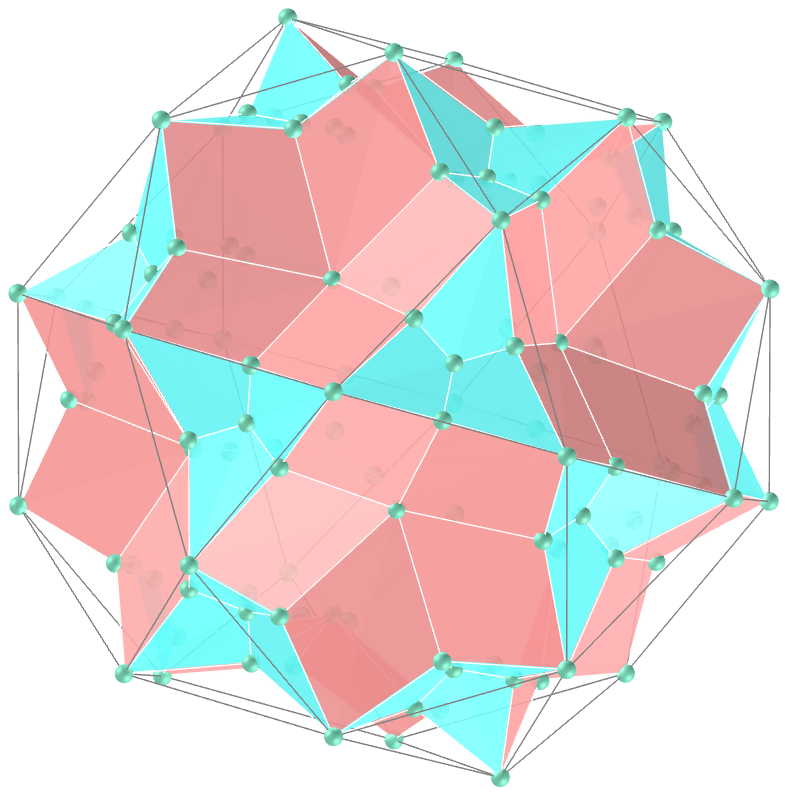
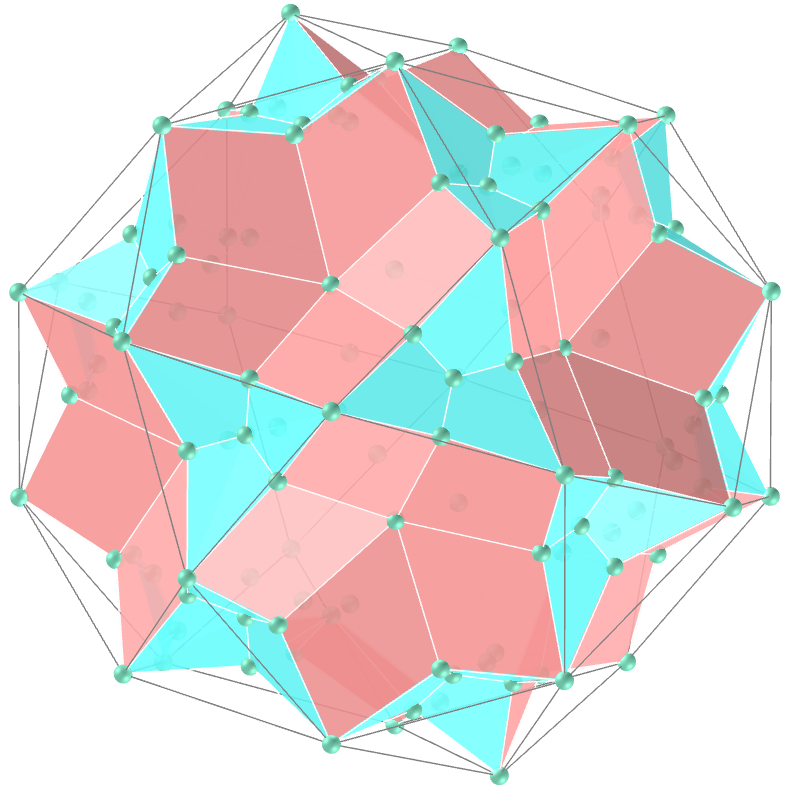
update

diff --git a/kites/vr/Rhombicosidodecahedron.htm b/kites/vr/Rhombicosidodecahedron.htm
@@ -102,73 +102,73 @@
 			<a-sphere mixin='esfera' position='0 1.476693305 0.3486'></a-sphere>
 			<a-sphere mixin='esfera' position='-0.456323326 1.302393305 0.630623326'></a-sphere>
 			<a-sphere mixin='esfera' position='-0.282023326 1.020369979 1.086946652'></a-sphere>
-			<a-sphere mixin='esfera' position='-0 0.822969659 0.50862322'></a-sphere>
+			<a-sphere mixin='esfera' position='-0 0.7781003111 0.480892438'></a-sphere>
 			<a-sphere mixin='esfera' position='-0.282023326 1.020369979 -1.086946652'></a-sphere>
 			<a-sphere mixin='esfera' position='-0.456323326 1.302393305 -0.630623326'></a-sphere>
 			<a-sphere mixin='esfera' position='0 1.476693305 -0.3486'></a-sphere>
 			<a-sphere mixin='esfera' position='0.456323326 1.302393305 -0.630623326'></a-sphere>
 			<a-sphere mixin='esfera' position='0.282023326 1.020369979 -1.086946652'></a-sphere>
-			<a-sphere mixin='esfera' position='0 0.822969659 -0.50862322'></a-sphere>
+			<a-sphere mixin='esfera' position='0 0.7781003111 -0.480892438'></a-sphere>
 			<a-sphere mixin='esfera' position='-0.282023326 -1.020369979 1.086946652'></a-sphere>
 			<a-sphere mixin='esfera' position='-0.456323326 -1.302393305 0.630623326'></a-sphere>
 			<a-sphere mixin='esfera' position='0 -1.476693305 0.3486'></a-sphere>
 			<a-sphere mixin='esfera' position='0.456323326 -1.302393305 0.630623326'></a-sphere>
 			<a-sphere mixin='esfera' position='0.282023326 -1.020369979 1.086946652'></a-sphere>
-			<a-sphere mixin='esfera' position='0 -0.822969659 0.50862322'></a-sphere>
+			<a-sphere mixin='esfera' position='0 -0.7781003111 0.480892438'></a-sphere>
 			<a-sphere mixin='esfera' position='0.282023326 -1.020369979 -1.086946652'></a-sphere>
 			<a-sphere mixin='esfera' position='0.456323326 -1.302393305 -0.630623326'></a-sphere>
 			<a-sphere mixin='esfera' position='0 -1.476693305 -0.3486'></a-sphere>
 			<a-sphere mixin='esfera' position='-0.456323326 -1.302393305 -0.630623326'></a-sphere>
 			<a-sphere mixin='esfera' position='-0.282023326 -1.020369979 -1.086946652'></a-sphere>
-			<a-sphere mixin='esfera' position='-0 -0.822969659 -0.50862322'></a-sphere>
+			<a-sphere mixin='esfera' position='-0 -0.7781003111 -0.480892438'></a-sphere>
 			<a-sphere mixin='esfera' position='1.086946652 0.282023326 1.020369979'></a-sphere>
 			<a-sphere mixin='esfera' position='0.630623326 0.456323326 1.302393305'></a-sphere>
 			<a-sphere mixin='esfera' position='0.3486 0 1.476693305'></a-sphere>
 			<a-sphere mixin='esfera' position='0.630623326 -0.456323326 1.302393305'></a-sphere>
 			<a-sphere mixin='esfera' position='1.086946652 -0.282023326 1.020369979'></a-sphere>
-			<a-sphere mixin='esfera' position='0.50862322 -0 0.822969659'></a-sphere>
+			<a-sphere mixin='esfera' position='0.480892438 -0 0.7781003111'></a-sphere>
 			<a-sphere mixin='esfera' position='1.086946652 -0.282023326 -1.020369979'></a-sphere>
 			<a-sphere mixin='esfera' position='0.630623326 -0.456323326 -1.302393305'></a-sphere>
 			<a-sphere mixin='esfera' position='0.3486 0 -1.476693305'></a-sphere>
 			<a-sphere mixin='esfera' position='0.630623326 0.456323326 -1.302393305'></a-sphere>
 			<a-sphere mixin='esfera' position='1.086946652 0.282023326 -1.020369979'></a-sphere>
-			<a-sphere mixin='esfera' position='0.50862322 0 -0.822969659'></a-sphere>
+			<a-sphere mixin='esfera' position='0.480892438 0 -0.7781003111'></a-sphere>
 			<a-sphere mixin='esfera' position='-1.086946652 -0.282023326 1.020369979'></a-sphere>
 			<a-sphere mixin='esfera' position='-0.630623326 -0.456323326 1.302393305'></a-sphere>
 			<a-sphere mixin='esfera' position='-0.3486 0 1.476693305'></a-sphere>
 			<a-sphere mixin='esfera' position='-0.630623326 0.456323326 1.302393305'></a-sphere>
 			<a-sphere mixin='esfera' position='-1.086946652 0.282023326 1.020369979'></a-sphere>
-			<a-sphere mixin='esfera' position='-0.50862322 0 0.822969659'></a-sphere>
+			<a-sphere mixin='esfera' position='-0.480892438 0 0.7781003111'></a-sphere>
 			<a-sphere mixin='esfera' position='-1.086946652 0.282023326 -1.020369979'></a-sphere>
 			<a-sphere mixin='esfera' position='-0.630623326 0.456323326 -1.302393305'></a-sphere>
 			<a-sphere mixin='esfera' position='-0.3486 0 -1.476693305'></a-sphere>
 			<a-sphere mixin='esfera' position='-0.630623326 -0.456323326 -1.302393305'></a-sphere>
 			<a-sphere mixin='esfera' position='-1.086946652 -0.282023326 -1.020369979'></a-sphere>
-			<a-sphere mixin='esfera' position='-0.50862322 -0 -0.822969659'></a-sphere>
+			<a-sphere mixin='esfera' position='-0.480892438 -0 -0.7781003111'></a-sphere>
 			<a-sphere mixin='esfera' position='1.020369979 1.086946652 0.282023326'></a-sphere>
 			<a-sphere mixin='esfera' position='1.302393305 0.630623326 0.456323326'></a-sphere>
 			<a-sphere mixin='esfera' position='1.476693305 0.3486 0'></a-sphere>
 			<a-sphere mixin='esfera' position='1.302393305 0.630623326 -0.456323326'></a-sphere>
 			<a-sphere mixin='esfera' position='1.020369979 1.086946652 -0.282023326'></a-sphere>
-			<a-sphere mixin='esfera' position='0.822969659 0.50862322 -0'></a-sphere>
+			<a-sphere mixin='esfera' position='0.7781003111 0.480892438 -0'></a-sphere>
 			<a-sphere mixin='esfera' position='1.020369979 -1.086946652 -0.282023326'></a-sphere>
 			<a-sphere mixin='esfera' position='1.302393305 -0.630623326 -0.456323326'></a-sphere>
 			<a-sphere mixin='esfera' position='1.476693305 -0.3486 0'></a-sphere>
 			<a-sphere mixin='esfera' position='1.302393305 -0.630623326 0.456323326'></a-sphere>
 			<a-sphere mixin='esfera' position='1.020369979 -1.086946652 0.282023326'></a-sphere>
-			<a-sphere mixin='esfera' position='0.822969659 -0.50862322 0'></a-sphere>
+			<a-sphere mixin='esfera' position='0.7781003111 -0.480892438 0'></a-sphere>
 			<a-sphere mixin='esfera' position='-1.020369979 1.086946652 -0.282023326'></a-sphere>
 			<a-sphere mixin='esfera' position='-1.302393305 0.630623326 -0.456323326'></a-sphere>
 			<a-sphere mixin='esfera' position='-1.476693305 0.3486 0'></a-sphere>
 			<a-sphere mixin='esfera' position='-1.302393305 0.630623326 0.456323326'></a-sphere>
 			<a-sphere mixin='esfera' position='-1.020369979 1.086946652 0.282023326'></a-sphere>
-			<a-sphere mixin='esfera' position='-0.822969659 0.50862322 0'></a-sphere>
+			<a-sphere mixin='esfera' position='-0.7781003111 0.480892438 0'></a-sphere>
 			<a-sphere mixin='esfera' position='-1.020369979 -1.086946652 0.282023326'></a-sphere>
 			<a-sphere mixin='esfera' position='-1.302393305 -0.630623326 0.456323326'></a-sphere>
 			<a-sphere mixin='esfera' position='-1.476693305 -0.3486 0'></a-sphere>
 			<a-sphere mixin='esfera' position='-1.302393305 -0.630623326 -0.456323326'></a-sphere>
 			<a-sphere mixin='esfera' position='-1.020369979 -1.086946652 -0.282023326'></a-sphere>
-			<a-sphere mixin='esfera' position='-0.822969659 -0.50862322 -0'></a-sphere>
+			<a-sphere mixin='esfera' position='-0.7781003111 -0.480892438 -0'></a-sphere>
 			<a-sphere mixin='esfera' position='0.1743 0.630623326 -1.368969979'></a-sphere>
 			<a-sphere mixin='esfera' position='0.282023326 1.020369979 -1.086946652'></a-sphere>
 			<a-sphere mixin='esfera' position='0.738346652 0.846069979 -1.020369979'></a-sphere>
@@ -288,32 +288,32 @@
 			<a-sphere mixin='esfera' position='-0.3486 0 1.476693305'></a-sphere>
 			<a-sphere mixin='esfera' position='0 -0.3486 1.476693305'></a-sphere>
 			<a-sphere mixin='esfera' position='0.3486 0 1.476693305'></a-sphere>
-			<a-sphere mixin='esfera' position='0 0 1.128912122'></a-sphere>
+			<a-sphere mixin='esfera' position='0 0 1.1334765929'></a-sphere>
 			<a-sphere mixin='esfera' position='0.3486 0 -1.476693305'></a-sphere>
 			<a-sphere mixin='esfera' position='0 -0.3486 -1.476693305'></a-sphere>
 			<a-sphere mixin='esfera' position='-0.3486 0 -1.476693305'></a-sphere>
 			<a-sphere mixin='esfera' position='0 0.3486 -1.476693305'></a-sphere>
-			<a-sphere mixin='esfera' position='0 0 -1.128912122'></a-sphere>
+			<a-sphere mixin='esfera' position='0 0 -1.1334765929'></a-sphere>
 			<a-sphere mixin='esfera' position='1.476693305 0 0.3486'></a-sphere>
 			<a-sphere mixin='esfera' position='1.476693305 -0.3486 0'></a-sphere>
 			<a-sphere mixin='esfera' position='1.476693305 0 -0.3486'></a-sphere>
 			<a-sphere mixin='esfera' position='1.476693305 0.3486 0'></a-sphere>
-			<a-sphere mixin='esfera' position='1.128912122 0 0'></a-sphere>
+			<a-sphere mixin='esfera' position='1.1334765929 0 0'></a-sphere>
 			<a-sphere mixin='esfera' position='-1.476693305 0.3486 0'></a-sphere>
 			<a-sphere mixin='esfera' position='-1.476693305 0 -0.3486'></a-sphere>
 			<a-sphere mixin='esfera' position='-1.476693305 -0.3486 0'></a-sphere>
 			<a-sphere mixin='esfera' position='-1.476693305 0 0.3486'></a-sphere>
-			<a-sphere mixin='esfera' position='-1.128912122 0 0'></a-sphere>
+			<a-sphere mixin='esfera' position='-1.1334765929 0 0'></a-sphere>
 			<a-sphere mixin='esfera' position='0.3486 1.476693305 0'></a-sphere>
 			<a-sphere mixin='esfera' position='0 1.476693305 -0.3486'></a-sphere>
 			<a-sphere mixin='esfera' position='-0.3486 1.476693305 0'></a-sphere>
 			<a-sphere mixin='esfera' position='0 1.476693305 0.3486'></a-sphere>
-			<a-sphere mixin='esfera' position='0 1.128912122 0'></a-sphere>
+			<a-sphere mixin='esfera' position='0 1.1334765929 0'></a-sphere>
 			<a-sphere mixin='esfera' position='0 -1.476693305 0.3486'></a-sphere>
 			<a-sphere mixin='esfera' position='-0.3486 -1.476693305 0'></a-sphere>
 			<a-sphere mixin='esfera' position='0 -1.476693305 -0.3486'></a-sphere>
 			<a-sphere mixin='esfera' position='0.3486 -1.476693305 0'></a-sphere>
-			<a-sphere mixin='esfera' position='0 -1.128912122 0'></a-sphere>
+			<a-sphere mixin='esfera' position='0 -1.1334765929 0'></a-sphere>
 			<a-sphere mixin='esfera' position='0.1743 0.630623326 -1.368969979'></a-sphere>
 			<a-sphere mixin='esfera' position='0 0.3486 -1.476693305'></a-sphere>
 			<a-sphere mixin='esfera' position='-0.1743 0.630623326 -1.368969979'></a-sphere>
@@ -361,35 +361,35 @@
 			<a-sphere mixin='esfera' position='1.020369979 0.738346652 0.846069979'></a-sphere>
 			<a-sphere mixin='esfera' position='0.846069979 1.020369979 0.738346652'></a-sphere>
 			<a-sphere mixin='esfera' position='0.738346652 0.846069979 1.020369979'></a-sphere>
-			<a-sphere mixin='esfera' position='0.784076138 0.784076138 0.784076138'></a-sphere>
+			<a-sphere mixin='esfera' position='0.7886601094 0.7886601094 0.7886601094'></a-sphere>
 			<a-sphere mixin='esfera' position='0.738346652 0.846069979 -1.020369979'></a-sphere>
 			<a-sphere mixin='esfera' position='0.846069979 1.020369979 -0.738346652'></a-sphere>
 			<a-sphere mixin='esfera' position='1.020369979 0.738346652 -0.846069979'></a-sphere>
-			<a-sphere mixin='esfera' position='0.784076138 0.784076138 -0.784076138'></a-sphere>
+			<a-sphere mixin='esfera' position='0.7886601094 0.7886601094 -0.7886601094'></a-sphere>
 			<a-sphere mixin='esfera' position='0.738346652 -0.846069979 1.020369979'></a-sphere>
 			<a-sphere mixin='esfera' position='0.846069979 -1.020369979 0.738346652'></a-sphere>
 			<a-sphere mixin='esfera' position='1.020369979 -0.738346652 0.846069979'></a-sphere>
-			<a-sphere mixin='esfera' position='0.784076138 -0.784076138 0.784076138'></a-sphere>
+			<a-sphere mixin='esfera' position='0.7886601094 -0.7886601094 0.7886601094'></a-sphere>
 			<a-sphere mixin='esfera' position='1.020369979 -0.738346652 -0.846069979'></a-sphere>
 			<a-sphere mixin='esfera' position='0.846069979 -1.020369979 -0.738346652'></a-sphere>
 			<a-sphere mixin='esfera' position='0.738346652 -0.846069979 -1.020369979'></a-sphere>
-			<a-sphere mixin='esfera' position='0.784076138 -0.784076138 -0.784076138'></a-sphere>
+			<a-sphere mixin='esfera' position='0.7886601094 -0.7886601094 -0.7886601094'></a-sphere>
 			<a-sphere mixin='esfera' position='-0.738346652 0.846069979 1.020369979'></a-sphere>
 			<a-sphere mixin='esfera' position='-0.846069979 1.020369979 0.738346652'></a-sphere>
 			<a-sphere mixin='esfera' position='-1.020369979 0.738346652 0.846069979'></a-sphere>
-			<a-sphere mixin='esfera' position='-0.784076138 0.784076138 0.784076138'></a-sphere>
+			<a-sphere mixin='esfera' position='-0.7886601094 0.7886601094 0.7886601094'></a-sphere>
 			<a-sphere mixin='esfera' position='-1.020369979 0.738346652 -0.846069979'></a-sphere>
 			<a-sphere mixin='esfera' position='-0.846069979 1.020369979 -0.738346652'></a-sphere>
 			<a-sphere mixin='esfera' position='-0.738346652 0.846069979 -1.020369979'></a-sphere>
-			<a-sphere mixin='esfera' position='-0.784076138 0.784076138 -0.784076138'></a-sphere>
+			<a-sphere mixin='esfera' position='-0.7886601094 0.7886601094 -0.7886601094'></a-sphere>
 			<a-sphere mixin='esfera' position='-1.020369979 -0.738346652 0.846069979'></a-sphere>
 			<a-sphere mixin='esfera' position='-0.846069979 -1.020369979 0.738346652'></a-sphere>
 			<a-sphere mixin='esfera' position='-0.738346652 -0.846069979 1.020369979'></a-sphere>
-			<a-sphere mixin='esfera' position='-0.784076138 -0.784076138 0.784076138'></a-sphere>
+			<a-sphere mixin='esfera' position='-0.7886601094 -0.7886601094 0.7886601094'></a-sphere>
 			<a-sphere mixin='esfera' position='-0.738346652 -0.846069979 -1.020369979'></a-sphere>
 			<a-sphere mixin='esfera' position='-0.846069979 -1.020369979 -0.738346652'></a-sphere>
 			<a-sphere mixin='esfera' position='-1.020369979 -0.738346652 -0.846069979'></a-sphere>
-			<a-sphere mixin='esfera' position='-0.784076138 -0.784076138 -0.784076138'></a-sphere>
+			<a-sphere mixin='esfera' position='-0.7886601094 -0.7886601094 -0.7886601094'></a-sphere>
 		</a-entity>
 		
 		<a-box mixin="piso" class="piso" visible="false" position="0 -1.5 0"></a-box>
